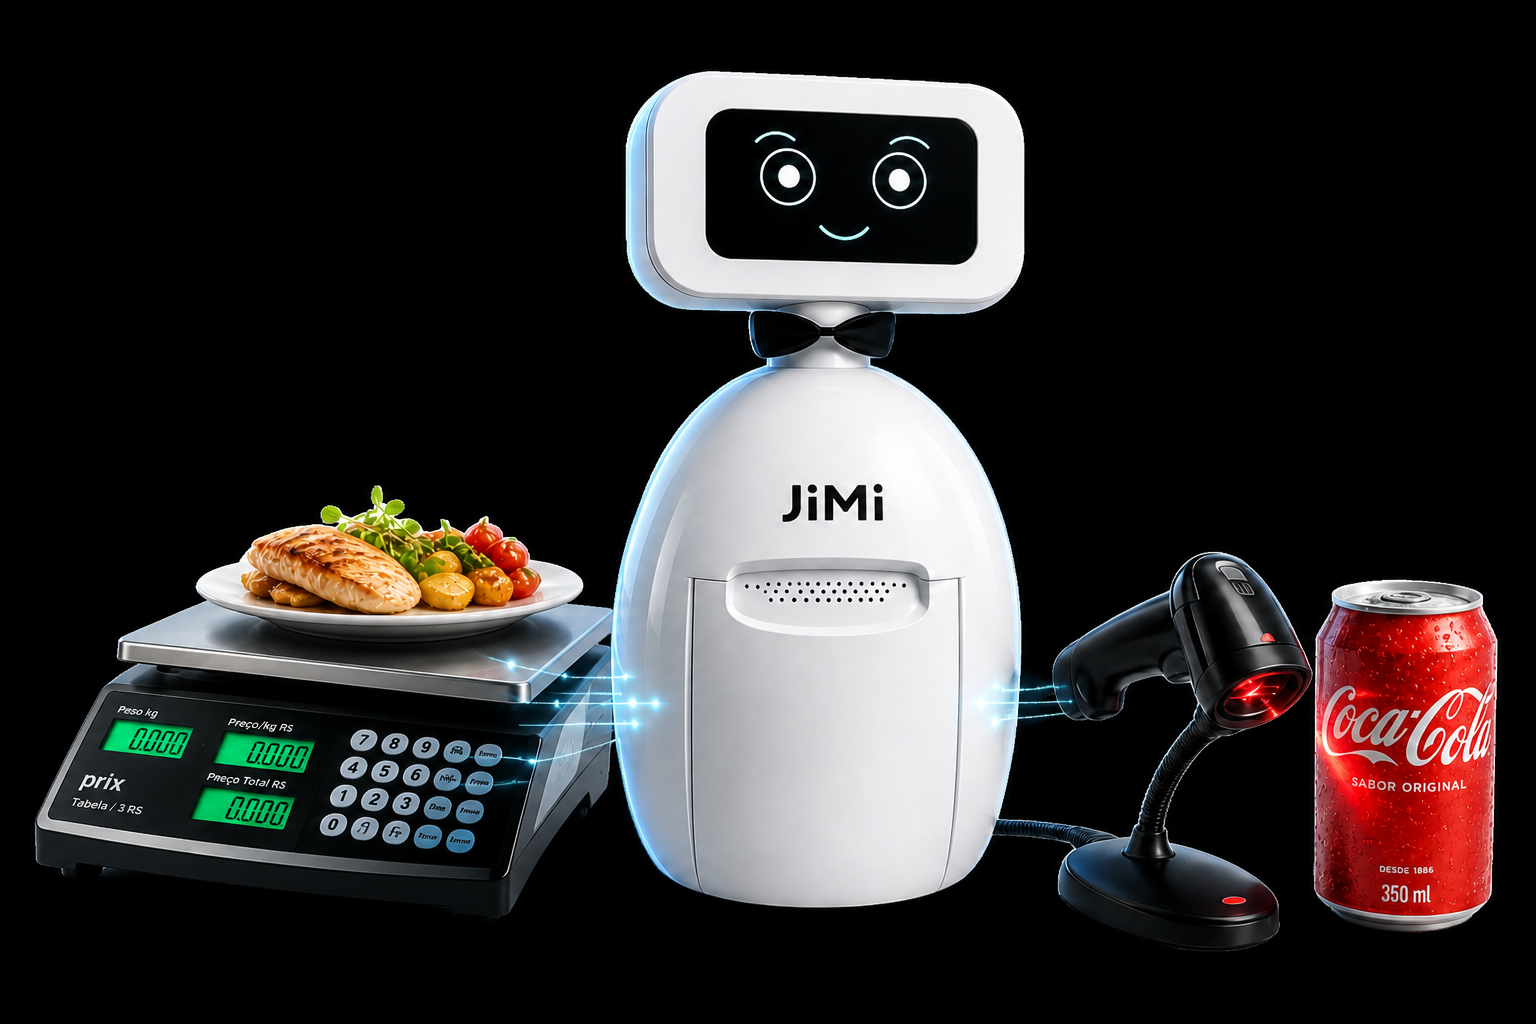
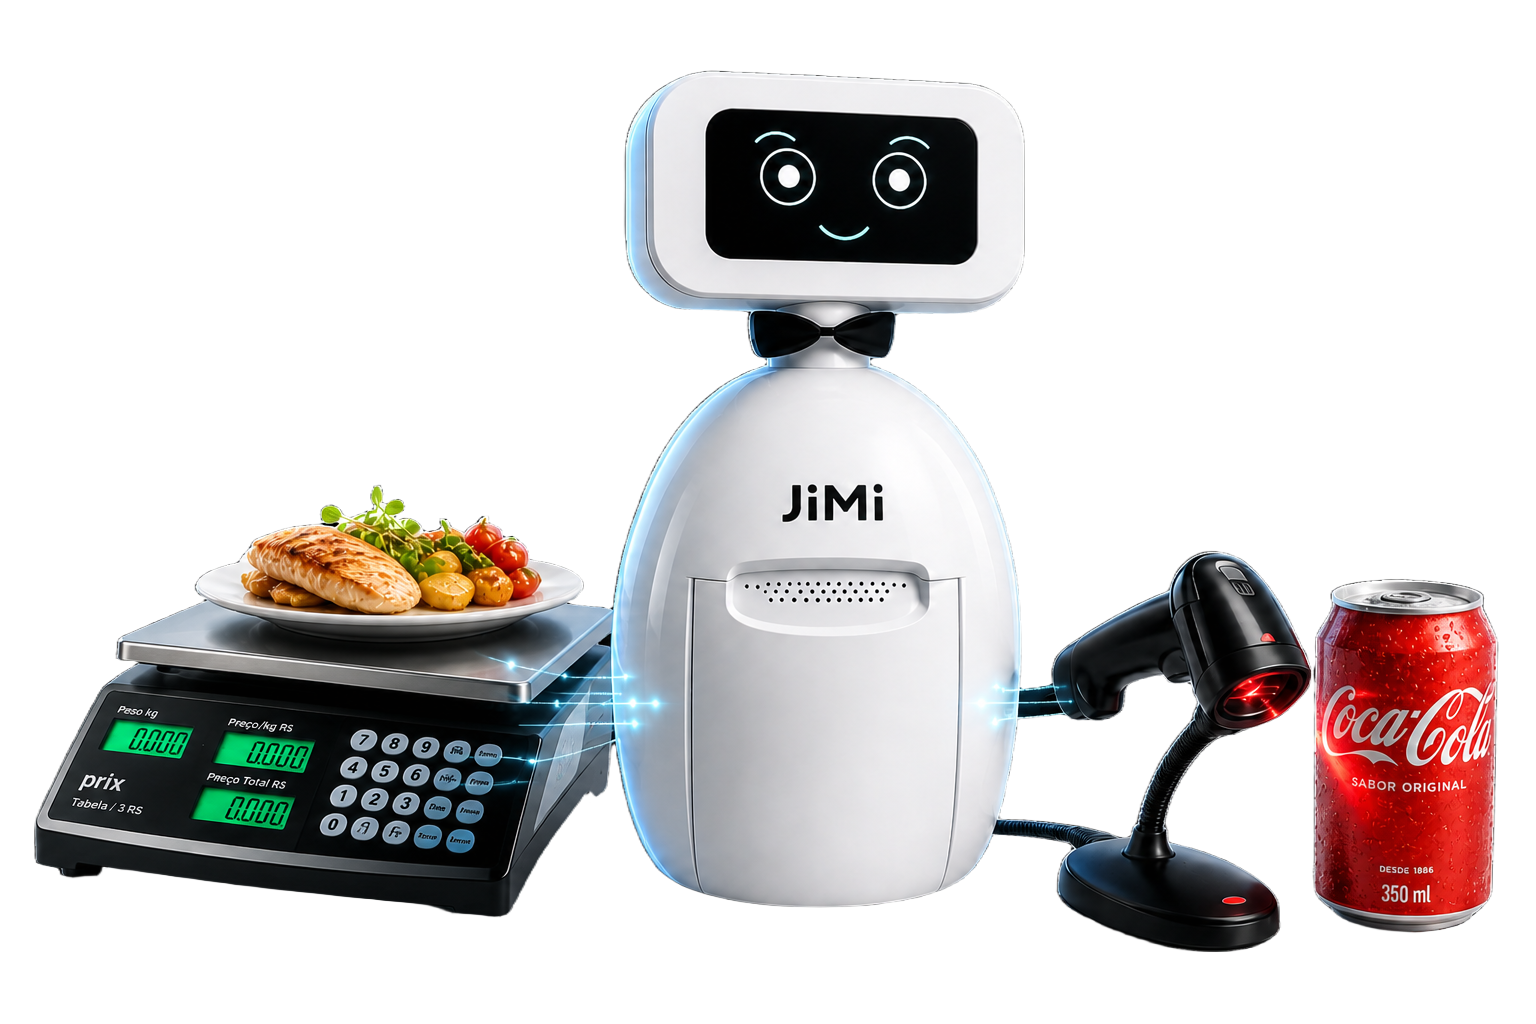
Update hero image to properly display robot with transparent background
Update the main hero image source in `artifacts/landing/index.html` from `/jimi-hero-new.png` to `/jimi-hero-v2.png` to resolve a caching issue and ensure the robot is displayed with a transparent background.

Replit-Commit-Author: Agent
Replit-Commit-Session-Id: 8781af55-ecaf-463a-aa09-79a5ecd45ba5
Replit-Commit-Checkpoint-Type: full_checkpoint
Replit-Commit-Event-Id: 098d6997-b43b-4ced-9b19-9ccea06e4797
Replit-Commit-Screenshot-Url: https://storage.googleapis.com/screenshot-production-us-central1/5ab19c17-9450-4461-9e36-d35765d1f25a/8781af55-ecaf-463a-aa09-79a5ecd45ba5/cLdaoNc
Replit-Helium-Checkpoint-Created: true

diff --git a/artifacts/landing/index.html b/artifacts/landing/index.html
@@ -494,7 +494,7 @@ function App(){
         </div>
       </div>
       <div className="hero-right">
-        <img className="hero-robot" src="/jimi-hero-new.png" alt="JiMi Robô" style={{opacity:1}}/>
+        <img className="hero-robot" src="/jimi-hero-v2.png" alt="JiMi Robô" style={{opacity:1}}/>
       </div>
     </section>
 
